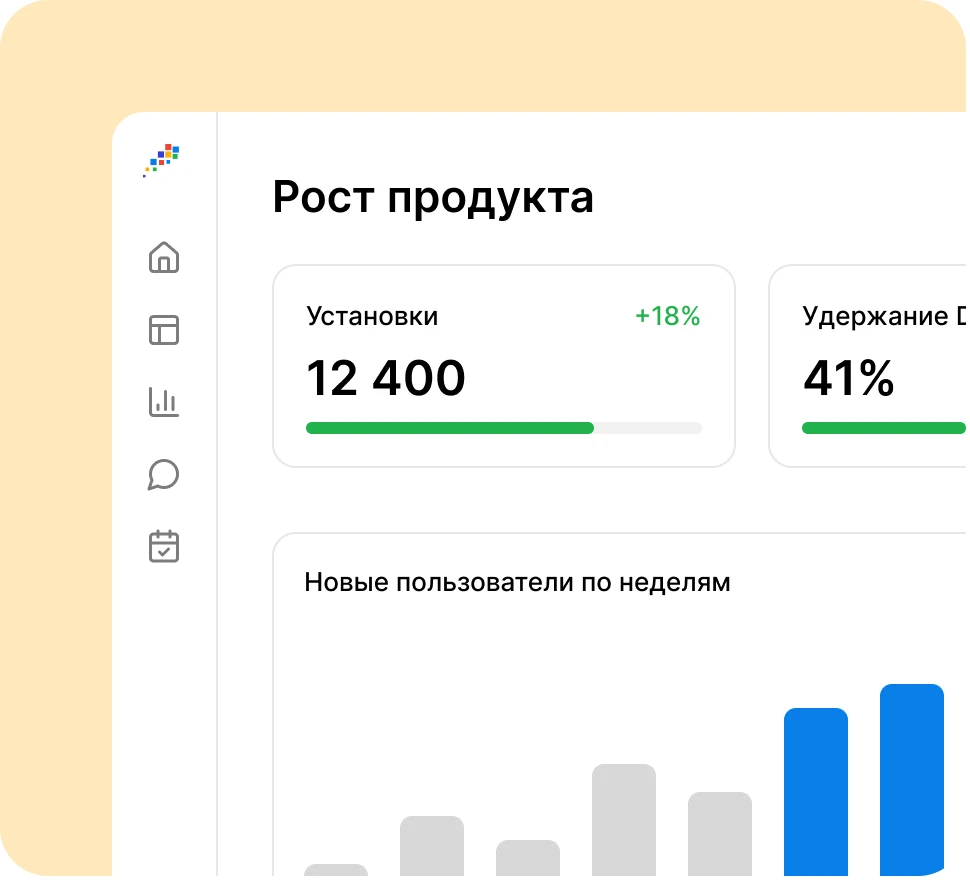
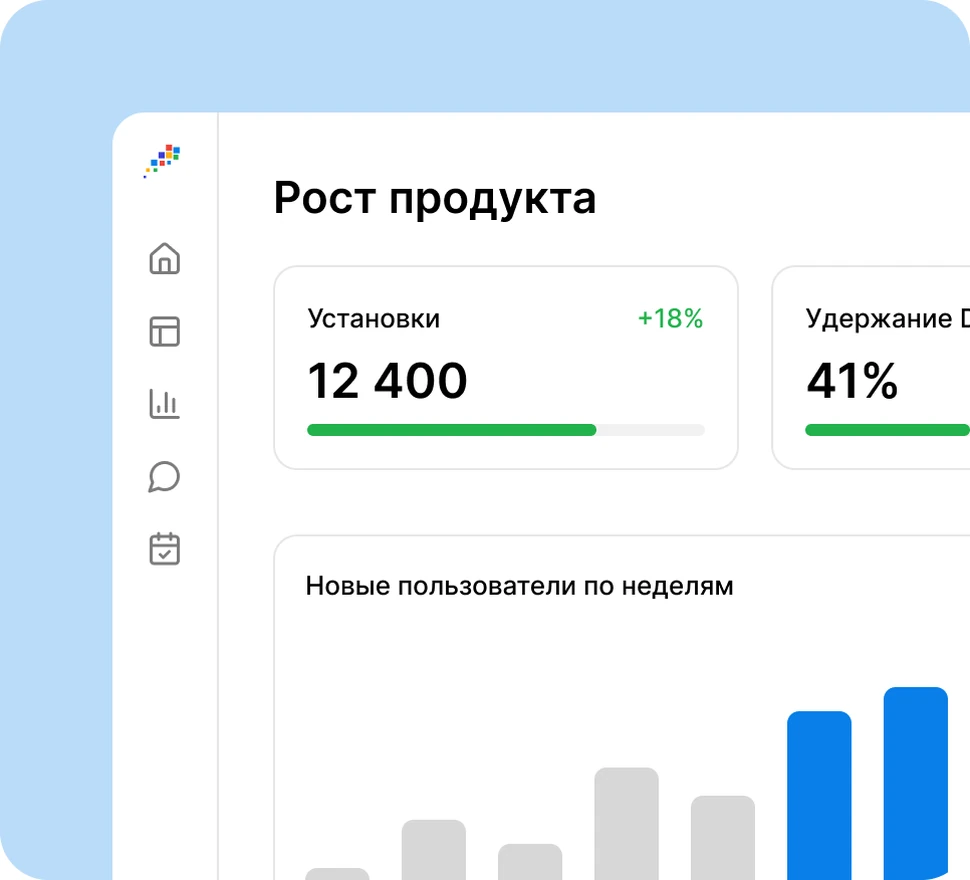
appbusters: B: синхронизация с Figma (мокапы услуг, карточки проектов)

diff --git a/appbusters/b/index.html b/appbusters/b/index.html
@@ -455,6 +455,8 @@ main > section:not(.hero), .test-note { position: relative; }
 /* карточки Services в стиле плашек бенто (Figma 180:1756): Surface/card, обводка 1px Border/divider внутрь, радиус 24; чипы Surface/muted */
 .feature { background: var(--surface-card); }
 .feature::after { content: ""; position: absolute; inset: 0; border: 1px solid var(--border-card); border-radius: inherit; pointer-events: none; }
+/* Карточка проекта как в Figma (Project card 180:1704): обводка 1 внутри раскладки (strokesIncludedInLayout), медиа на 9 от края, высота 438 */
+.project-card { border: 1px solid var(--border-card); }
 .feature__chip { background: var(--surface-muted); }
 
 /* Единая шкала типографики B (12.10.2026, по Figma Home B): Display 62/56, H2 40/40, H3 32/36, H4 24/28, Body L 16/24, Label L 16/20 Medium,
@@ -592,7 +594,7 @@ html.lenis,html.lenis body{height:auto}.lenis:not(.lenis-autoToggle).lenis-stopp
           <div class="feature__chips"><span class="feature__chip"><svg width="20" height="20" viewBox="0 0 20 20" fill="none" stroke="currentColor" stroke-width="1.5" stroke-linecap="round" stroke-linejoin="round" aria-hidden="true"><path d="M17.5 17.5L13.9167 13.9167M15.8333 9.16667C15.8333 12.8486 12.8486 15.8333 9.16667 15.8333C5.48477 15.8333 2.5 12.8486 2.5 9.16667C2.5 5.48477 5.48477 2.5 9.16667 2.5C12.8486 2.5 15.8333 5.48477 15.8333 9.16667Z"/></svg>UX-исследования</span><span class="feature__chip"><svg width="20" height="20" viewBox="0 0 20 20" fill="none" stroke="currentColor" stroke-width="1.5" stroke-linecap="round" stroke-linejoin="round" aria-hidden="true"><path d="M2.5 7.5H17.5M7.5 17.5V7.5M4.16667 2.5H15.8333C16.7538 2.5 17.5 3.24619 17.5 4.16667V15.8333C17.5 16.7538 16.7538 17.5 15.8333 17.5H4.16667C3.24619 17.5 2.5 16.7538 2.5 15.8333V4.16667C2.5 3.24619 3.24619 2.5 4.16667 2.5Z"/></svg>Интерфейсы</span><span class="feature__chip"><svg width="20" height="20" viewBox="0 0 20 20" fill="none" stroke="currentColor" stroke-width="1.5" stroke-linecap="round" stroke-linejoin="round" aria-hidden="true"><path d="M18.3333 14.7083L10.6916 18.175C10.4745 18.2741 10.2386 18.3253 9.99996 18.3253C9.7613 18.3253 9.52543 18.2741 9.30829 18.175L1.66663 14.7083M18.3333 10.5417L10.6916 14.0083C10.4745 14.1074 10.2386 14.1586 9.99996 14.1586C9.7613 14.1586 9.52543 14.1074 9.30829 14.0083L1.66663 10.5417M10.6916 1.81668C10.4745 1.71764 10.2386 1.66638 9.99996 1.66638C9.7613 1.66638 9.52543 1.71764 9.30829 1.81668L2.16663 5.06668C2.01875 5.13188 1.89303 5.23868 1.80476 5.37406C1.7165 5.50944 1.6695 5.66757 1.6695 5.82918C1.6695 5.99079 1.7165 6.14892 1.80476 6.2843C1.89303 6.41968 2.01875 6.52648 2.16663 6.59168L9.31663 9.85001C9.53376 9.94905 9.76963 10.0003 10.0083 10.0003C10.2469 10.0003 10.4828 9.94905 10.7 9.85001L17.85 6.60001C17.9978 6.53481 18.1236 6.42801 18.2118 6.29263C18.3001 6.15725 18.3471 5.99913 18.3471 5.83751C18.3471 5.6759 18.3001 5.51777 18.2118 5.38239C18.1236 5.24701 17.9978 5.14022 17.85 5.07501L10.6916 1.81668Z"/></svg>Дизайн-система</span><span class="feature__chip"><svg width="20" height="20" viewBox="0 0 20 20" fill="none" stroke="currentColor" stroke-width="1.5" stroke-linecap="round" stroke-linejoin="round" aria-hidden="true"><path d="M3.36421 3.90671C3.33132 3.8308 3.32201 3.74676 3.33749 3.6655C3.35297 3.58424 3.39253 3.50951 3.45102 3.45102C3.50951 3.39253 3.58424 3.35297 3.6655 3.33749C3.74676 3.32201 3.8308 3.33132 3.90671 3.36421L17.24 8.78087C17.3211 8.8139 17.3897 8.87163 17.4361 8.94586C17.4825 9.02009 17.5044 9.10705 17.4986 9.1944C17.4928 9.28175 17.4596 9.36505 17.4038 9.43248C17.3479 9.49991 17.2723 9.54804 17.1875 9.57004L12.0842 10.8867C11.7959 10.9608 11.5326 11.1108 11.3219 11.3211C11.1112 11.5314 10.9606 11.7944 10.8859 12.0825L9.57004 17.1875C9.54804 17.2723 9.49991 17.3479 9.43248 17.4038C9.36505 17.4596 9.28175 17.4928 9.1944 17.4986C9.10705 17.5044 9.02009 17.4825 8.94586 17.4361C8.87163 17.3897 8.8139 17.3211 8.78087 17.24L3.36421 3.90671Z"/></svg>Прототипы</span></div>
           <a class="feature__link" href="#lead"><span class="feature__circle"><svg width="20" height="20" viewBox="0 0 20 20" fill="none" stroke="currentColor" stroke-width="1.5" stroke-linecap="round" stroke-linejoin="round" aria-hidden="true"><path d="M7.5 15L12.5 10L7.5 5"/></svg></span>Обсудить проект</a>
         </div>
-        <img class="feature__mockup" src="img/services-design.webp?v=2" width="485" height="440" alt="Окно приложения: «Макеты», сетка с&nbsp;обложками кейсов" loading="lazy">
+        <img class="feature__mockup" src="img/services-design.webp?v=3" width="485" height="440" alt="Окно приложения: «Макеты», сетка с&nbsp;обложками кейсов" loading="lazy">
       </article>
       <article class="feature">
         <div class="feature__text">
@@ -601,7 +603,7 @@ html.lenis,html.lenis body{height:auto}.lenis:not(.lenis-autoToggle).lenis-stopp
           <div class="feature__chips"><span class="feature__chip"><svg width="20" height="20" viewBox="0 0 20 20" fill="none" stroke="currentColor" stroke-width="1.5" stroke-linecap="round" stroke-linejoin="round" aria-hidden="true"><circle cx="10" cy="10" r="8.333"/><circle cx="10" cy="10" r="5"/><circle cx="10" cy="10" r="1.667"/></svg>Стратегия запуска</span><span class="feature__chip"><svg width="20" height="20" viewBox="0 0 20 20" fill="none" stroke="currentColor" stroke-width="1.5" stroke-linecap="round" stroke-linejoin="round" aria-hidden="true"><path d="M9.66667 14C9.57912 14.3174 9.42992 14.6144 9.22759 14.8741C9.02525 15.1338 8.77375 15.3511 8.48744 15.5136C8.20112 15.6761 7.88561 15.7806 7.5589 15.8212C7.23219 15.8617 6.90069 15.8375 6.58333 15.75C6.26597 15.6625 5.96896 15.5133 5.70926 15.3109C5.44956 15.1086 5.23226 14.8571 5.06975 14.5708C4.90725 14.2845 4.80273 13.9689 4.76217 13.6422C4.7216 13.3155 4.74579 12.984 4.83333 12.6667M2.5 9.16667L17.5 5V15L2.5 11.6667V9.16667Z"/></svg>Реклама</span><span class="feature__chip"><svg width="20" height="20" viewBox="0 0 20 20" fill="none" stroke="currentColor" stroke-width="1.5" stroke-linecap="round" stroke-linejoin="round" aria-hidden="true"><path d="M2.5 2.5V15.8333C2.5 16.2754 2.67559 16.6993 2.98816 17.0118C3.30072 17.3244 3.72464 17.5 4.16667 17.5H17.5M15 14.1667V7.5M10.8333 14.1667V4.16667M6.66667 14.1667V11.6667"/></svg>Аналитика</span><span class="feature__chip"><svg width="20" height="20" viewBox="0 0 20 20" fill="none" stroke="currentColor" stroke-width="1.5" stroke-linecap="round" stroke-linejoin="round" aria-hidden="true"><path d="M18.3326 5.83325L11.2496 12.9173L7.08263 8.75025L1.66663 14.1673M18.3326 10.8333V5.83325H13.3326"/></svg>Рост продукта</span></div>
           <a class="feature__link" href="#lead"><span class="feature__circle"><svg width="20" height="20" viewBox="0 0 20 20" fill="none" stroke="currentColor" stroke-width="1.5" stroke-linecap="round" stroke-linejoin="round" aria-hidden="true"><path d="M7.5 15L12.5 10L7.5 5"/></svg></span>Обсудить проект</a>
         </div>
-        <img class="feature__mockup" src="img/services-marketing.webp?v=3" width="485" height="440" alt="Окно приложения: «Рост продукта», показатели и&nbsp;столбики" loading="lazy">
+        <img class="feature__mockup" src="img/services-marketing.webp?v=4" width="485" height="440" alt="Окно приложения: «Рост продукта», показатели и&nbsp;столбики" loading="lazy">
       </article>
     </div>
   </section>
@@ -659,11 +661,11 @@ html.lenis,html.lenis body{height:auto}.lenis:not(.lenis-autoToggle).lenis-stopp
         <div class="project-card__body"><h3 class="heading-h3">Tryon.AI</h3><p class="text-sm">Примерка одежды на&nbsp;фото с&nbsp;помощью AI: собрали приложение и&nbsp;вырастили его на&nbsp;коротких роликах</p></div>
       </a>
       <a class="project-card" href="#">
-        <div class="project-card__media" style="--cover: var(--accent-orange) url(../img/cover-dom.jpg?v=1110c) center / cover no-repeat"><span class="project-card__wordmark"><span class="project-card__logo"><svg width="28" height="28" viewBox="0 0 28 28" aria-hidden="true"><path d="M14 3.5L25 12.6V24.5H17.2V18H10.8V24.5H3V12.6L14 3.5Z" fill="currentColor" stroke="currentColor" stroke-linejoin="round"/></svg><span>Дом&nbsp;«От&nbsp;и&nbsp;До»</span></span></span><span class="badge badge--ghost text-sm">Ремонт</span></div>
+        <div class="project-card__media" style="--cover: var(--accent-orange) url(img/cover-dom.jpg?v=b1) center / cover no-repeat"><span class="project-card__wordmark"><span class="project-card__logo"><svg width="28" height="28" viewBox="0 0 28 28" aria-hidden="true"><path d="M14 3.5L25 12.6V24.5H17.2V18H10.8V24.5H3V12.6L14 3.5Z" fill="currentColor" stroke="currentColor" stroke-linejoin="round"/></svg><span>Дом&nbsp;«От&nbsp;и&nbsp;До»</span></span></span><span class="badge badge--ghost text-sm">Ремонт</span></div>
         <div class="project-card__body"><h3 class="heading-h3">Дом «От&nbsp;и&nbsp;До»</h3><p class="text-sm">Приложение для ремонта: объекты на&nbsp;карте, работы и&nbsp;исполнители в&nbsp;одном месте</p></div>
       </a>
       <a class="project-card" href="#">
-        <div class="project-card__media" style="--cover: var(--accent-indigo) url(../img/cover-spiritup.jpg?v=1110c) center / cover no-repeat"><span class="project-card__wordmark"><span class="project-card__logo"><svg width="28" height="28" viewBox="0 0 28 28" aria-hidden="true"><path d="M14 4C18.2 8.6 18.2 15.4 14 21C9.8 15.4 9.8 8.6 14 4Z" fill="currentColor"/><path d="M2.5 11C8 10.8 12.2 14.6 12.8 21.5C6.6 21.6 2.6 17.6 2.5 11Z" fill="currentColor"/><path d="M25.5 11C20 10.8 15.8 14.6 15.2 21.5C21.4 21.6 25.4 17.6 25.5 11Z" fill="currentColor"/><path d="M20.8 23H7.2C6.537 23 6 23.537 6 24.2C6 24.863 6.537 25.4 7.2 25.4H20.8C21.463 25.4 22 24.863 22 24.2C22 23.537 21.463 23 20.8 23Z" fill="currentColor"/></svg><span>Spirit&nbsp;Up</span></span></span><span class="badge badge--ghost text-sm">Астрология</span></div>
+        <div class="project-card__media" style="--cover: var(--accent-indigo) url(img/cover-spiritup.jpg?v=b1) center / cover no-repeat"><span class="project-card__wordmark"><span class="project-card__logo"><svg width="28" height="28" viewBox="0 0 28 28" aria-hidden="true"><path d="M14 4C18.2 8.6 18.2 15.4 14 21C9.8 15.4 9.8 8.6 14 4Z" fill="currentColor"/><path d="M2.5 11C8 10.8 12.2 14.6 12.8 21.5C6.6 21.6 2.6 17.6 2.5 11Z" fill="currentColor"/><path d="M25.5 11C20 10.8 15.8 14.6 15.2 21.5C21.4 21.6 25.4 17.6 25.5 11Z" fill="currentColor"/><path d="M20.8 23H7.2C6.537 23 6 23.537 6 24.2C6 24.863 6.537 25.4 7.2 25.4H20.8C21.463 25.4 22 24.863 22 24.2C22 23.537 21.463 23 20.8 23Z" fill="currentColor"/></svg><span>Spirit&nbsp;Up</span></span></span><span class="badge badge--ghost text-sm">Астрология</span></div>
         <div class="project-card__body"><h3 class="heading-h3">Spirit Up</h3><p class="text-sm">Консультации астрологов и&nbsp;персональные прогнозы в&nbsp;одном приложении</p></div>
       </a>
     </div>
